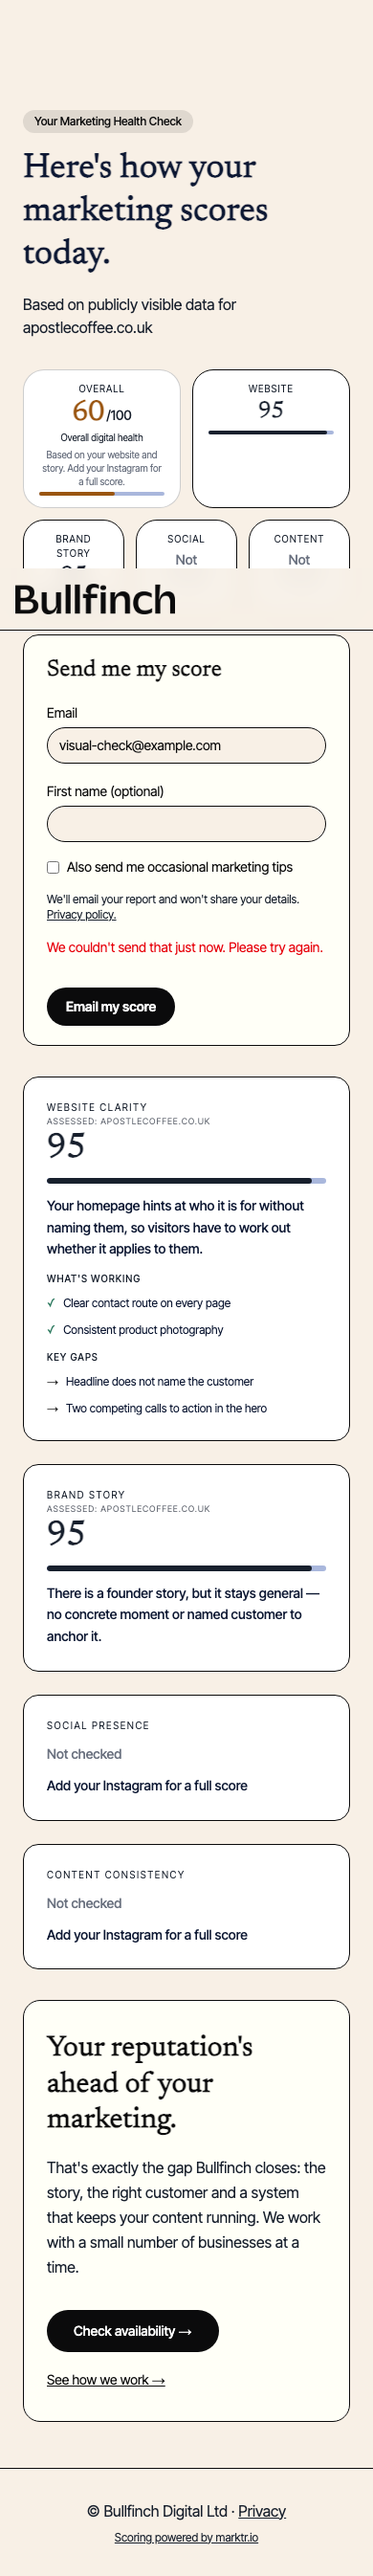
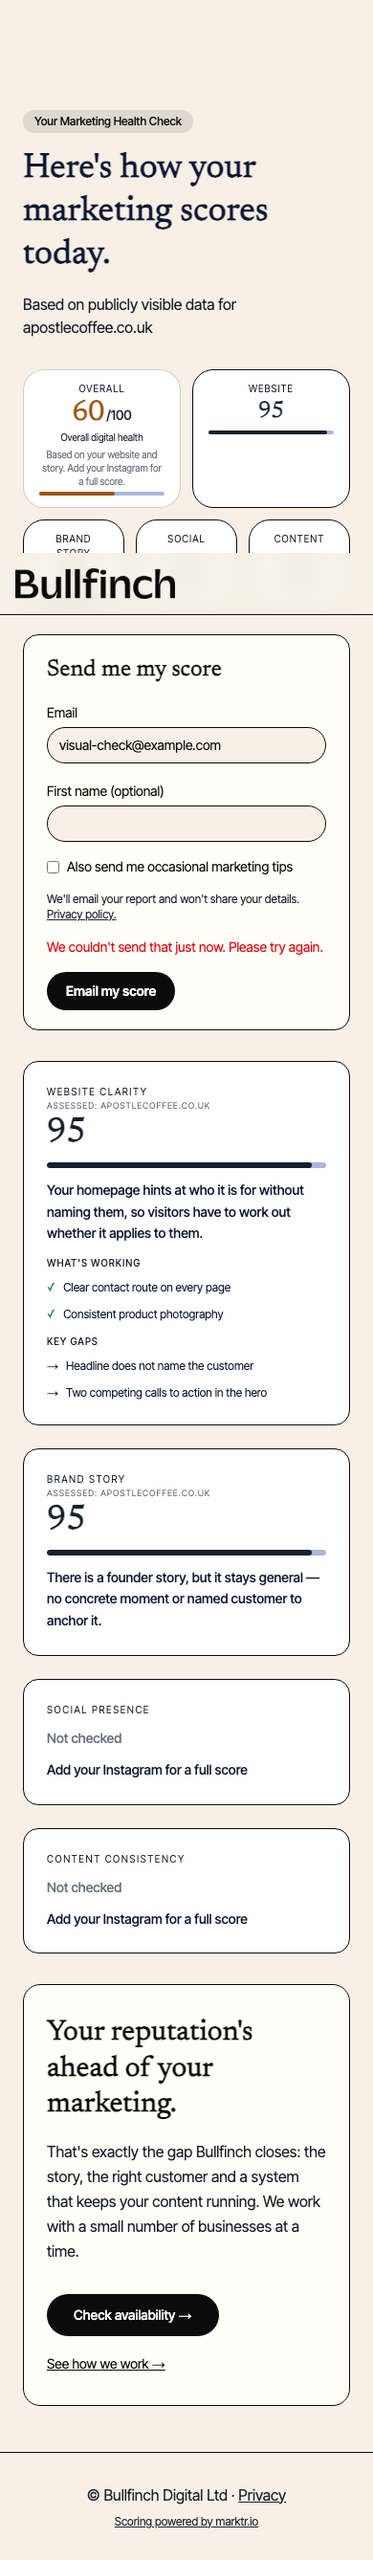
Give the score-card Turnstile widget room to run off-screen.
A zero-height box never issued a token, so the send button could not get past the check.

diff --git a/src/components/healthCheck/SendScoreCard.tsx b/src/components/healthCheck/SendScoreCard.tsx
@@ -64,7 +64,7 @@ export function SendScoreCard({
 
   if (phase === "sent") {
     return (
-      <section className="mt-6 rounded-2xl border border-border bg-card px-6 py-5">
+      <section className="relative mt-6 rounded-2xl border border-border bg-card px-6 py-5">
         <p className="font-body text-sm text-foreground" role="status">
           {copy.success}
         </p>
@@ -73,7 +73,7 @@ export function SendScoreCard({
   }
 
   return (
-    <section className="mt-6 rounded-2xl border border-border bg-card px-6 py-5">
+    <section className="relative mt-6 rounded-2xl border border-border bg-card px-6 py-5">
       <h2 className="font-display text-2xl font-semibold text-foreground">{copy.heading}</h2>
       <form
         className="mt-4 space-y-4"

diff --git a/src/components/healthCheck/ScanTurnstile.tsx b/src/components/healthCheck/ScanTurnstile.tsx
@@ -209,7 +209,11 @@ export const ScanTurnstile = forwardRef<
         <div
           ref={containerRef}
           data-compact={compact ? "true" : undefined}
-          className={compact ? "flex items-start" : "min-h-[65px] flex items-start"}
+          className={
+            compact
+              ? "absolute left-[-9999px] top-0 h-[65px] w-[300px]"
+              : "min-h-[65px] flex items-start"
+          }
           aria-label="Security verification"
         />
         {loadError ? (
